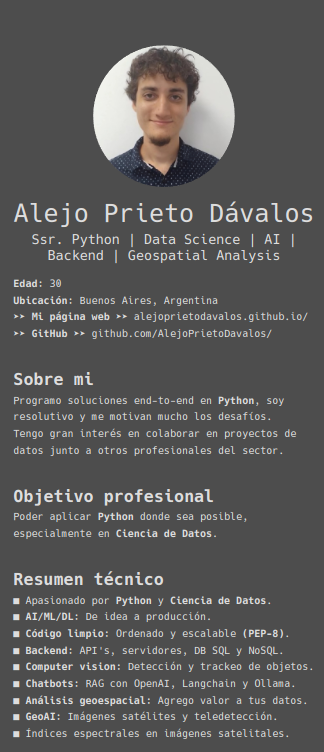
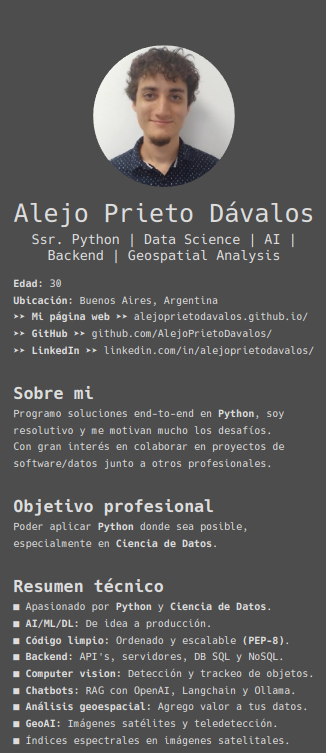
example output

diff --git a/linkedin2cv/draw.py b/linkedin2cv/draw.py
@@ -19,7 +19,7 @@ DIST_HEADLINE_TO_LINKS = 4
 DIST_LINE_SPACING_LEFT = 3 * mm  # Espaciado desde la barra lateral (izquierda)
 DIST_LINE_SPACING_RIGHT = 3 * mm  # Espaciado desde el borde derecho
 LINE_THICKNESS = 0.5  # Grosor de la línea horizontal
-DIST_BETWEEN_TITLE_TEXT_SIDEBAR = 15
+DIST_BETWEEN_TITLE_TEXT_SIDEBAR = 13
 LEN_PYTHON_ICON = 3
 SIDEBAR_TO_BODY_GAP = 2 * mm
 PHOTO_TOP_PADDING = 10 * mm
@@ -97,6 +97,7 @@ def draw_sidebar(
         page_height: int,
         url_website: Optional[str] = None,
         url_github: Optional[str] = None,
+        url_linkedin: Optional[str] = None,
 ) -> None:
     c.setFillColor(style_cv.sidebar_panel)
     c.rect(sizes_cv.margin_left, 0, sizes_cv.column_left_wifth, page_height, fill=True, stroke=0)
@@ -121,6 +122,8 @@ def draw_sidebar(
         info_lines.append(f"<b>➤➤ Mi página web ➤➤</b> <a href='{url_website}'>{remove_https(url_website)}</a>")
     if url_github:
         info_lines.append(f"<b>➤➤ GitHub ➤➤</b> <a href='{url_github}'>{remove_https(url_github)}</a>")
+    if url_linkedin:
+        info_lines.append(f"<b>➤➤ LinkedIn ➤➤</b> <a href='{url_linkedin}'>{remove_https(url_linkedin)}</a>")
 
     for line in info_lines:
         content.append(Paragraph(line, styles["SidebarLinks"]))

diff --git a/linkedin2cv/builder.py b/linkedin2cv/builder.py
@@ -86,6 +86,7 @@ class BuilderCV:
             location: str,
             url_website: Optional[str] = None,
             url_github: Optional[str] = None,
+            url_linkedin: Optional[str] = None,
             path_data: Path = Path("data"),
             photo_name: Optional[str] = None,
             page_size: Tuple[float, float] = A4,
@@ -101,6 +102,7 @@ class BuilderCV:
         self.location = location
         self.url_website = url_website
         self.url_github = url_github
+        self.url_linkedin = url_linkedin
         self.page_width, self.page_height = page_size
         self.is_photo_circle = is_photo_circle
         self.lines_to_draw = []  # Lista de tuplas (x1, y1, x2, y2)
@@ -142,7 +144,8 @@ class BuilderCV:
             location=self.location,
             page_height=self.page_height,
             url_website=self.url_website,
-            url_github=self.url_github
+            url_github=self.url_github,
+            url_linkedin=self.url_linkedin
         )
 
     def draw_positions(self):

diff --git a/main.py b/main.py
@@ -1,6 +1,7 @@
 from typing import Optional
 from pathlib import Path
 import shutil
+import re
 
 from reportlab.pdfbase import pdfmetrics
 from reportlab.pdfbase.ttfonts import TTFont
@@ -15,6 +16,7 @@ AGE = 30
 LOCATION = "Buenos Aires, Argentina"
 URL_WEB = "https://alejoprietodavalos.github.io/"
 URL_GITHUB = "https://github.com/AlejoPrietoDavalos/"
+URL_LINKEDIN = "https://linkedin.com/in/alejoprietodavalos/"
 
 
 def load_font() -> None:
@@ -56,7 +58,7 @@ def translate_date(date_str: Optional[str]) -> Optional[str]:
         return f"{month_map[parts[0]]} {parts[1]}"
     return date_str
 
-import re
+
 def put_bold_in_brackets(text: str) -> str:
     return re.sub(r"(\[[^\]]+\])", r"<b>\1</b>", text)
 
@@ -87,6 +89,7 @@ def main(*, folder_name: str, photo_name: Optional[str] = None) -> None:
         location=LOCATION,
         url_website=URL_WEB,
         url_github=URL_GITHUB,
+        url_linkedin=URL_LINKEDIN,
         photo_name=photo_name,
         is_photo_circle=True
     )

diff --git a/README.md b/README.md
@@ -1,5 +1,5 @@
 ## Curriculum Automático a partir de los datos de Linkedin.
-![example](plots/example.png)
+![Example output](plots/example.png)
 
 
 ## Como usar
